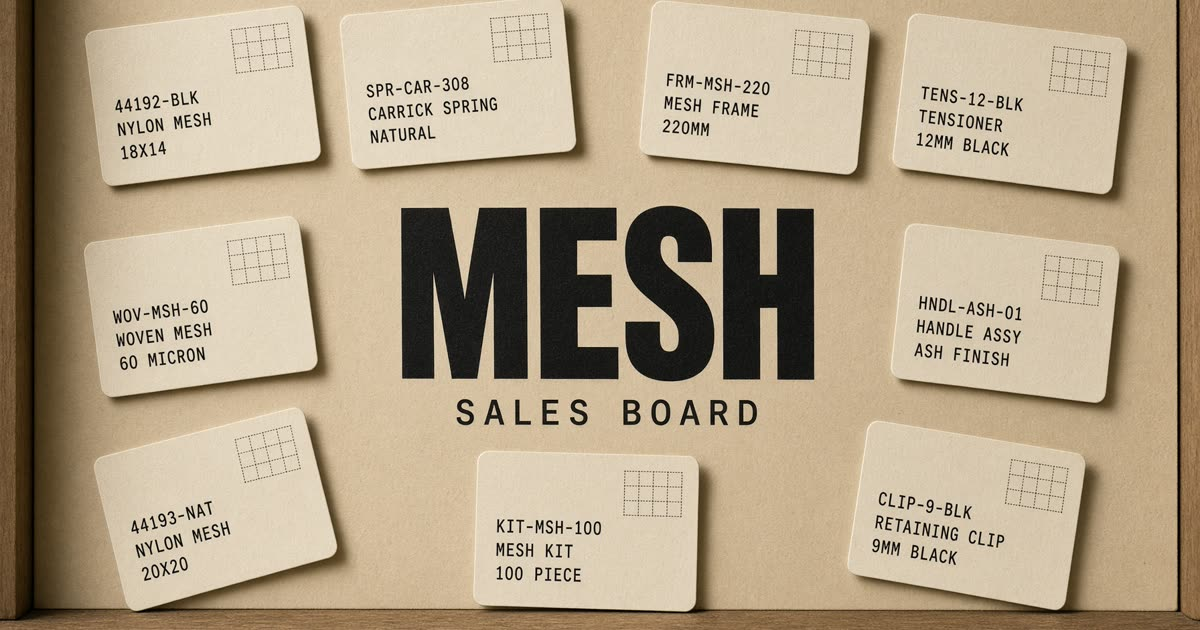
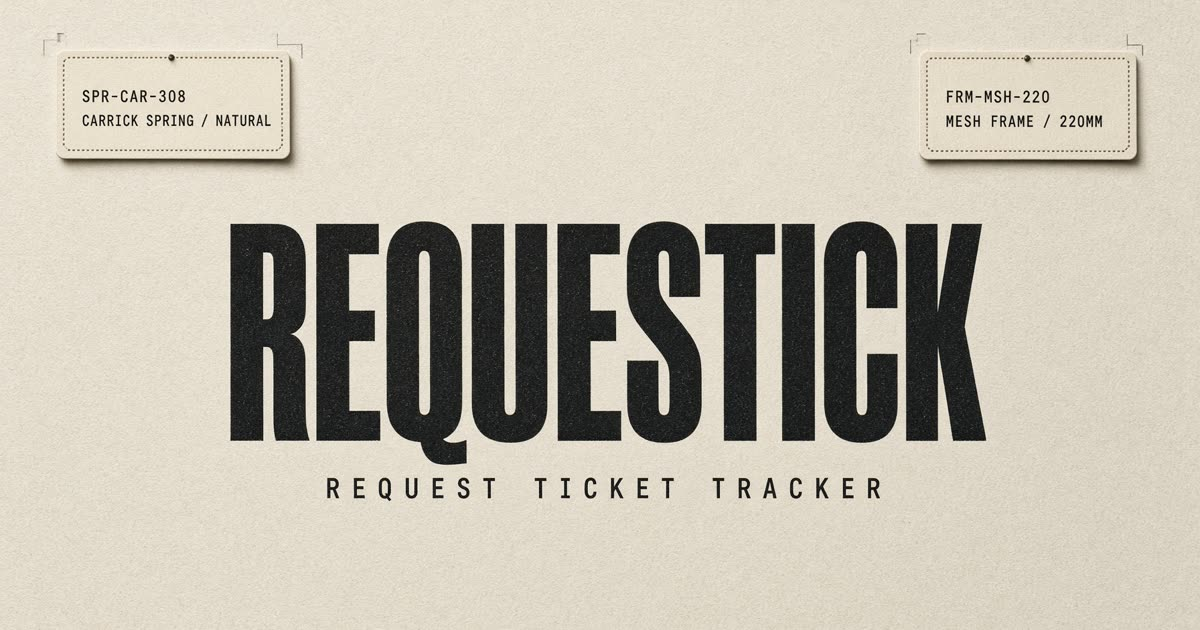
Rebrand lockup to Requestick / Request Ticket Tracker

diff --git a/src/components/mesh/landing.tsx b/src/components/mesh/landing.tsx
@@ -1,7 +1,7 @@
 import type { ReactNode } from "react";
 import { Link } from "@tanstack/react-router";
 import { Bell, Phone, Search, ShieldCheck } from "lucide-react";
-import { MeshMark } from "./mark";
+import { MeshWordmark } from "./mark";
 import { useBranding } from "./brand-context";
 import { Button } from "@/components/ui/button";
 import { Badge } from "@/components/ui/badge";
@@ -44,12 +44,7 @@ export function Landing() {
   return (
     <div className="min-h-dvh">
       <header className="mx-auto flex w-full max-w-6xl items-center justify-between px-4 py-5 sm:px-6">
-        <span className="flex items-center gap-2.5">
-          <MeshMark />
-          <span className="font-sans text-lg font-semibold tracking-tight">
-            {brand.companyName}
-          </span>
-        </span>
+        <MeshWordmark />
         <Button asChild variant="outline" size="sm">
           <Link to="/login">Sign in</Link>
         </Button>

diff --git a/src/lib/mesh/settings.server.ts b/src/lib/mesh/settings.server.ts
@@ -86,7 +86,7 @@ export async function ensureSettings(sql: Sql): Promise<void> {
     create table if not exists mesh_settings (
       id integer primary key check (id = 1),
       company_name text not null default 'Requestick',
-      tagline text not null default 'Sales board',
+      tagline text not null default 'Request Ticket Tracker',
       logo_data text not null default '',
       paper text not null default '#efe8dc',
       ink text not null default '#1c1917',
@@ -112,6 +112,10 @@ export async function ensureSettings(sql: Sql): Promise<void> {
   await sql.query(
     `update mesh_settings set company_name = 'Requestick', updated_at = now()
      where id = 1 and company_name in ('Mesh', '')`,
+  );
+  await sql.query(
+    `update mesh_settings set tagline = 'Request Ticket Tracker', updated_at = now()
+     where id = 1 and tagline in ('Sales board', 'Sales Board', '')`,
   );
   settingsReady = true;
 }

diff --git a/src/components/mesh/admin-page.tsx b/src/components/mesh/admin-page.tsx
@@ -224,7 +224,7 @@ function LookAdmin({
             id="brand-tag"
             value={tagline}
             onChange={(e) => setTagline(e.target.value)}
-            placeholder="Sales board"
+            placeholder="Request Ticket Tracker"
           />
         </Field>
         <div className="flex flex-col gap-1.5">
@@ -356,7 +356,7 @@ function LookPreview({ brand }: { brand: Branding }) {
             className="font-mono text-[10px] tracking-[0.18em] uppercase"
             style={{ color: vars["--color-muted"] }}
           >
-            {brand.tagline || "Sales board"}
+            {brand.tagline || "Request Ticket Tracker"}
           </p>
         </div>
       </div>

diff --git a/src/components/mesh/mark.tsx b/src/components/mesh/mark.tsx
@@ -36,7 +36,7 @@ export function MeshWordmark({ compact = false }: { compact?: boolean }) {
         </span>
         {!compact ? (
           <span className="mt-0.5 font-mono text-[10px] tracking-[0.18em] text-muted uppercase">
-            {brand.tagline || "Sales board"}
+            {brand.tagline || "Request Ticket Tracker"}
           </span>
         ) : null}
       </span>

diff --git a/src/lib/mesh/api.ts b/src/lib/mesh/api.ts
@@ -271,7 +271,7 @@ function parseBranding(input: Record<string, unknown>): Branding {
   }
   return {
     companyName,
-    tagline: cleanText(input.tagline, 80) || "Sales board",
+    tagline: cleanText(input.tagline, 80) || "Request Ticket Tracker",
     logoData,
     paper,
     ink,

diff --git a/src/lib/mesh/brand.ts b/src/lib/mesh/brand.ts
@@ -2,7 +2,7 @@ import type { Branding, PublicBrand } from "./types";
 
 export const DEFAULT_BRANDING: Branding = {
   companyName: "Requestick",
-  tagline: "Sales board",
+  tagline: "Request Ticket Tracker",
   logoData: "",
   paper: "#efe8dc",
   ink: "#1c1917",

diff --git a/README.md b/README.md
@@ -1,6 +1,6 @@
 # Requestick
 
-Company-only sales board for FFL inside sales. Post a part on an open dealer
+Request ticket tracker for FFL inside sales. Post a part on an open dealer
 ticket, ping the desk, call Ring Central or text a cell. Admins approve logins,
 set branding, and can read open tickets from Business Central (read-only).
 
